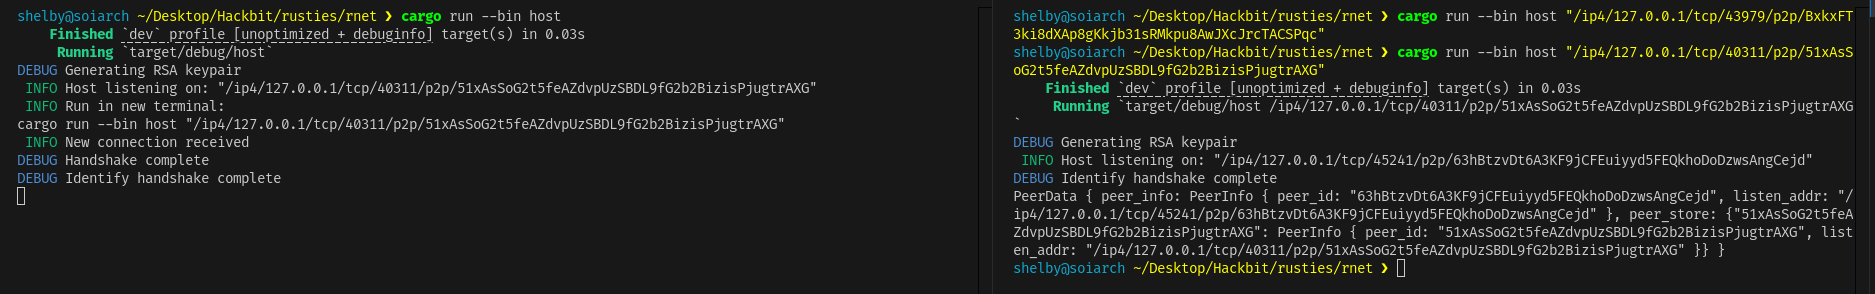
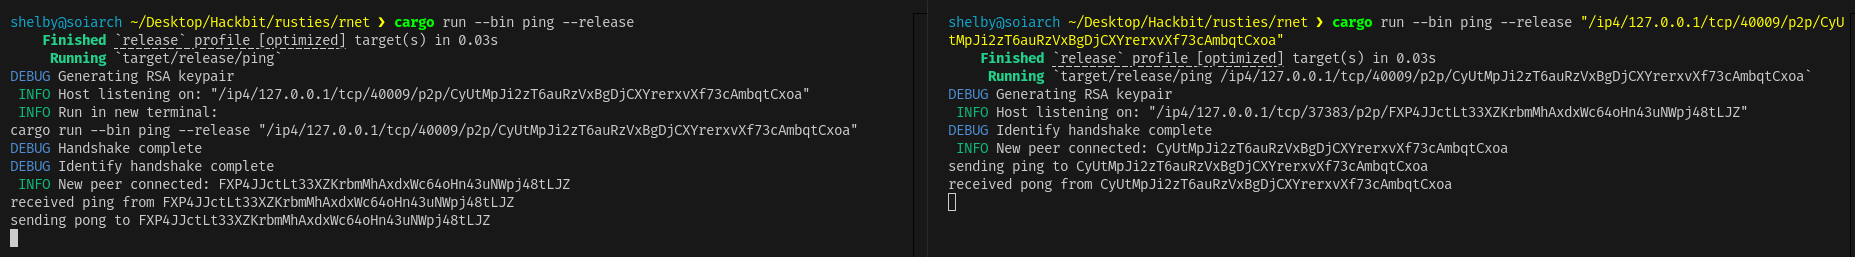
[rnet]: add docs

Changed region(s): [[0.4916, 0.0, 1.0, 0.9339], [0.0, 0.0311, 0.4609, 0.8093], [0.0, 0.8405, 0.2765, 0.965]]

diff --git a/rusties/rnet/README.md b/rusties/rnet/README.md
@@ -1,0 +1,106 @@
+# rnet -- A minimal P2P networking stack in Rust
+
+This repository is an experimental peer-to-peer networking library written in Rust. The goal is for me to understand how a P2P stack is built from ground up -- especially the complex RUST async patterns involved when we combine transports, multiplexing, and application-level protocols.
+
+## Repository Structure
+
+The main components of this repository are structured as follows:
+
+- `core/`: Foundational types and traits used across the entire stack.
+
+  This crate defines:
+
+  - peer identity and peer-related data structures.
+  - multiaddr parsing and representation.
+  - core traits that describe transports, connections, and stream abstractions.
+    Almost every other crate depend on `core`, moke it the conceptual base of the system.
+
+- `transport/`: Implementation of connection level networking
+
+  Curretly includes:
+
+  - **TCP transport**, responsible for establishing raw byte streams between peers.
+
+- `muxer/`: Stream multiplexing implementations build on top of transports.
+
+  Currently includes:
+
+  - **mplex**, allowing multiple logical streams over a single transport connection
+    Muxers sit between the transport and protocol layers and are responsible for stream lifecycle management, framing and backpressure.
+
+- `protocols/`: Implimentation of application-level protocols running over multiplexed streams.
+
+  Currently includes:
+
+  - **identify**, peer indentification handshake
+
+- `examples/`: Runnable binaries demonstrating how to assemble the stack end-to-end.
+
+  Examples show:
+
+  - how to create a host
+  - how to listen or dial using multiaddrs
+  - how transports, muxers, and protcols are wired together in practice.
+    These are intended as executable reference points, not just sample snippets.
+
+-------------------------------------------------------------------------
+> Legend: ✅: Done  🛠: In Progress/Usable  🌱 Prototype/Unstable  ❌: Missing
+
+## Transports
+
+| **Transport**  | **Status** |                                      **Source**                                      |
+| -------------- | :--------: | :----------------------------------------------------------------------------------: |
+| **`rnet-tcp`** |     ✅     | [source](https://github.com/lla-dane/Hackbit/tree/master/rusties/rnet/transport/tcp) |
+
+---
+
+### Secure Communication
+
+| **Secure Communication** | **Status** | **Source** |
+| ------------------------ | :--------: | :--------: |
+| **`rnet-noise`**         |     🛠     |            |
+
+---
+
+### Stream Muxers
+
+| **Stream Muxers** | **Status** |                                     **Source**                                     |
+| ----------------- | :--------: | :--------------------------------------------------------------------------------: |
+| **`rnet-mplex`**  |     ✅     | [source](https://github.com/lla-dane/Hackbit/tree/master/rusties/rnet/muxer/mplex) |
+
+---
+
+### General Purpose Utilities & Datatypes
+
+| **Utility/Datatype** | **Status** |                                        **Source**                                         |
+| -------------------- | :--------: | :---------------------------------------------------------------------------------------: |
+| **`rnet-ping`**      |     ✅     |   [source](https://github.com/lla-dane/Hackbit/tree/master/rusties/rnet/examples/ping)    |
+| **`rnet-identify`**  |     ✅     | [source](https://github.com/lla-dane/Hackbit/tree/master/rusties/rnet/protocols/identify) |
+
+## Explanation of Basic Two Node Communication
+
+### Core Concepts
+
+_(non-normative, useful for understanding, not a reference)_
+
+Several components of a p2p stack take part when establishing a connection between two nodes:
+
+1. **Host**: a node in a p2p network.
+1. **Connection**: the layer 3 connection between two nodes in a p2p network.
+1. **Transport**: the component that creates a _Connection_, e.g. TCP, UDP, QUIC, etc.
+1. **Streams**: an abstraction on top of a _Connection_ representing parallel conversations about different matters, each of which is identified by a protocol ID. Multiple streams are layered on top of a _Connection_ via the _StreamMultiplexer_. e.g. MPLEX, YAMUX, etc.
+1. **Multiplexer**: a component that is responsible for wrapping messages sent on a stream with an envelope that identifies the stream they pertain to, normally via an ID. The multiplexer on the other unwraps the message and routes it internally based on the stream identification.
+1. **Secure channel**: optionally establishes a secure, encrypted, and authenticated channel over the _Connection_. e.g. NOISE, TLS
+1. **Upgrader**: a component that takes a raw layer 3 connection returned by the _Transport_, and performs the security and multiplexing negotiation to set up a secure, multiplexed channel on top of which _Streams_ can be opened.
+
+### Communication between two hosts X and Y
+
+_(non-normative, useful for understanding, not a reference)_
+
+**Initiate the connection**: A host is simply a node in a p2p network that is able to communicate with other nodes in the network. In order for X and Y to communicate with one another, one of the hosts must initiate the connection. Let's say that X is going to initiate the connection. X will first open a connection to Y. This connection is where all of the actual communication will take place.
+
+**Communication over one connection with multiple protocols**: X and Y can communicate over the same connection using different protocols and the multiplexer will appropriately route messages for a given protocol to a particular handler function for that protocol, which allows for each host to handle different protocols with separate functions. Furthermore, we can use multiple streams for a given protocol that allow for the same protocol and same underlying connection to be used for communication about separate topics between nodes X and Y.
+
+**Why use multiple streams?**: The purpose of using the same connection for multiple streams to communicate over is to avoid the overhead of having multiple connections between X and Y. In order for X and Y to differentiate between messages on different streams and different protocols, a multiplexer is used to encode the messages when a message will be sent and decode a message when a message is received. The multiplexer encodes the message by adding a header to the beginning of any message to be sent that contains the stream id (along with some other info). Then, the message is sent across the raw connection and the receiving host will use its multiplexer to decode the message, i.e. determine which stream id the message should be routed to.
+
+_This structure is inspired by libp2p's layering model. but implemented independently to better understand the mechanics and async patterns involved._

diff --git a/rusties/rnet/muxer/mplex/README.md b/rusties/rnet/muxer/mplex/README.md
@@ -1,0 +1,58 @@
+# Mplex Stream Multiplexer
+
+This module implements a lightweight stream multiplexing layer inspired by mplex.
+
+It allows multiple logical streams to be created and managed over a single underlying transport connection, enabling concurrent protocol execution without opening multiple TCP connections.
+
+## Overview
+
+The mplex layer sits between the transport and protocol layers.
+
+It is responsible for:
+- framing data into stream-specific messages
+- creating and closing logical streams
+- routing incoming frames to the correct stream
+- dispatching streams to protocol handlers after a simple handshake
+
+Each multiplexed stream behaves like an independent, bidirectional channel, while sharing a single underlying connection.
+
+## Core components
+
+**`MuxedConn`**: This represents a multiplexed connection built on top of a raw transport connection.
+
+It manages:
+- the underlying RawConnection
+- stream ID allocation and tracking
+- a map of active streams and their message channels
+- demultiplexing of incoming frames
+- forwarding payloads to the appropriate `MuxedStream`
+
+Incoming frames are parsed, classified by flag and stream ID, and routed accordingly.
+
+**`MuxedStream`**: This represents a single logical stream within a multiplexed connection.
+
+It provides:
+- async read and write operations
+- stream-scoped protocol negotiation
+- access to remote peer information
+- execution of protocol-specific async handlers
+
+Each stream is independent and can run concurrently with others.
+
+### Framing format
+
+Frames are encoded as:
+- varint-encoded header containing stream ID and message flag
+- varint-encoded payload length
+- raw payload bytes
+
+The header embeds both the stream identifier and the message type, allowing efficient demultiplexing.
+
+### Protocol handshake
+
+When a new stream is created, a minimal handshake is performed:
+- the initiator sends the protocol name as the first message
+- the responder validates the protocol against registered handlers
+- both sides confirm the protocol before executing the handler
+
+This mechanism provides basic protocol dispatch without a full negotiation framework.

diff --git a/rusties/rnet/core/host/README.md b/rusties/rnet/core/host/README.md
@@ -1,0 +1,49 @@
+## Host
+
+This module contains the core host runtime of an rnet node. This crate is basically about:
+
+> "How does a node accept raw TCP connection and turn it into a multiplexed, identify-aware peer connection?"
+
+The architecture includes:
+- **BasicHost** -- the runtime and event loop
+- **Multiselect** -- protocol negotiation and identify handshake
+- **Keys** -- peer identity and message authentication
+
+## Layout
+```bash
+host/
+├── basic_host.rs        # Node runtime and connection lifecycle
+├── headers.rs           # Internal host control framing
+├── keys/
+│   ├── mod.rs           # Key trait abstraction
+│   └── rsa.rs           # RSA-based peer identity
+├── multiselect/
+│   ├── mod.rs
+│   ├── multiselect.rs   # Initiator-side protocol negotiation
+│   └── mutilselect_com.rs # Responder-side negotiation
+└── lib.rs
+```
+
+- `BasicHost`: The main event loop of a node.
+    It owns:
+    - the TCP transport
+    - active peer-connections and key-pairs
+    - protocol stream handlers
+    - an internal control channel
+
+- `Multiselect`: This module handles protocol negotiation.
+    There are 2 roles:
+    - `Multiselect` -- used by the dialer (initiator)
+    - `MultiselectConn` -- used by the listener (responder)
+
+    Both negotiate:
+    - multistream support
+    - idenitfy protocol
+
+    After negotiation the identify sequence run to exchange the `PeerInfo`
+
+- `Keys`: This module defines the node identity.
+    - `RsaKeyPair` is the default implementation
+
+    Peer IDs are derived from the SHA-256 hash of the public key and encoded in base58. This makes identities deterministic and content-addressed.
+

diff --git a/rusties/rnet/examples/tcp/README.md b/rusties/rnet/examples/tcp/README.md
@@ -1,0 +1,44 @@
+## Description
+
+The TCP ping example demonstrates direct usage of the TcpTransport without any stream multiplexing or application-level protocols.
+
+It shows how to:
+
+- listen for incoming TCP connections
+- dial a remote peer using a multiaddr
+- perform basic asynchronous read and write operations over a raw connection
+
+The example operates in a simple client/server mode and is intended as a low-level building block for understanding the transport layer of rnet.
+
+## Usage
+
+To run the example, follow these steps:
+
+1. In a first terminal window, run the following command:
+
+   ```sh
+   cargo run --bin tcp --release
+   ```
+
+   This command starts a node and prints the listening-IP like this:
+
+   ```sh
+   Run in another terminal: cargo run -- 127.0.0.1:46749
+   ```
+
+2. In a second terminal window, start a new instance of the example with the following command:
+
+   ```sh
+   cargo run --bin tcp --release -- 127.0.0.1:46749
+   ```
+
+   Replace `127.0.0.1:46749` with the listening-IP of the first node obtained from the first terminal window.
+
+3. The client sends a ping message to the server.
+   The server receives the message, waits briefly, and responds with pong.
+
+## Conclusion
+
+The TCP ping example illustrates the most basic networking path in rnet: raw transport connections and asynchronous I/O.
+
+It serves as a reference for how higher-level components such as stream multiplexers and protocols are layered on top of transports in the rest of the project.

diff --git a/rusties/rnet/examples/ping/README.md b/rusties/rnet/examples/ping/README.md
@@ -1,0 +1,33 @@
+## Description
+
+The ping example showcases how to create a network of nodes that establish connections, negotiate the ping protocol, and ping each other.
+
+## Usage
+
+To run the example, follow these steps:
+
+1. In a first terminal window, run the following command:
+
+   ```sh
+   cargo run --bin ping --release
+   ```
+
+   This command starts a node and prints the `PeerId` and the listening addresses, such as:
+   ```sh
+   `Listening on "/ip4/127.0.0.1/tcp/44389/p2p/23fdsv32..."`.
+   ```
+
+2. In a second terminal window, start a new instance of the example with the following command:
+
+   ```sh
+   cargo run --bin ping --release /ip4/127.0.0.1/tcp/44389/p2p/2958bs....
+   ```
+
+   Replace `/ip4/127.0.0.1/tcp/44389` with the listen address of the first node obtained from the first terminal window.
+
+3. The two nodes will establish a connection, negotiate the ping protocol, and begin pinging each other.
+
+## Conclusion
+
+The ping example demonstrates the basic usage of **rnet** to create a simple p2p network and implement a ping protocol.
+By running multiple nodes and observing the ping behavior, users can gain insights into how **rnet** facilitates communication and interaction between peers.

diff --git a/rusties/rnet/transport/tcp/README.md b/rusties/rnet/transport/tcp/README.md
@@ -1,0 +1,27 @@
+# TCP Transport
+
+This module provides a TCP-based implementation of the Transport and Connection traits used throughout rnet.
+
+It is responsible for establishing and managing raw network connections and exposes a minimal, async-friendly API for reading and writing bytes.
+
+## What it implements
+
+**`TcpTransport`**: A thin wrapper around `tokio::net::TcpListener` and implements the `Transport` trait.
+
+It supports:
+- listening on a TCP address derived from a Multiaddr
+- accepting incoming connections
+- dialing remote peers using TCP
+
+The transport layer does not interpret data and does not provide stream multiplexing.
+
+**`TcpConn`**: It wraps a `tokio::net::TcpStream` and represents a single TCP connection.
+
+It implements:
+- `Connection` — basic async read, write, and close operations
+- `SendReceive` — a simple length-prefixed message framing helper
+
+The framing format is:
+- 4-byte big-endian message length
+- followed by the raw message bytes
+

diff --git a/rusties/rnet/examples/README.md b/rusties/rnet/examples/README.md
@@ -1,0 +1,25 @@
+# Examples
+
+A set of examples showcasing how to use rnet.
+
+## Getting started
+
+To run any example in this directory, you can use Cargo:
+
+```sh
+# Get to root directory
+cargo run --bin ping --release
+```
+
+Each example includes its own README.md file with specific instructions on how to use it. Most examples require running multiple instances to demonstrate peer-to-peer communication, so be sure to read the individual example documentation.
+
+### Prerequisites
+
+- Rust and Cargo installed (see [rustup.rs](https://rustup.rs/) for installation)
+- Basic understanding of peer-to-peer networking concepts
+- Some examples may require additional dependencies specific to their functionality
+
+## Individual libp2p features
+
+- [Ping](./ping): Small `ping` clone, sending a ping to a peer, expecting a pong as a response.
+- [TCP](./tcp): A minimal TCP client/server example built on `TcpTransport`, illustrating async accept loops, task spawning, and connection I/O.

diff --git a/rusties/rnet/core/multiaddr/src/README.md b/rusties/rnet/core/multiaddr/src/README.md
@@ -1,0 +1,18 @@
+# Multiaddr
+
+This module provides a minimal implementation of multiaddresses used throughout rnet to describe how peers can be reached.
+
+A multiaddr represents a network address as an ordered list of protocol components (e.g. IP, transport, peer ID), rather than a single opaque string.
+
+## Overview
+
+A `Multiaddr` is parsed from a string such as:
+```sh
+/ip4/127.0.0.1/tcp/8080/p2p/afopponnfsklngllsbgjzafnafangg
+```
+
+Internally, it is represented as a sequence of protocol components that can be inspected, modified, or extended by higher layers.
+
+This makes address handling explicit and avoids hard-coding assumptions about transports or protocols.
+
+

diff --git a/rusties/rnet/protocols/identify/README.md b/rusties/rnet/protocols/identify/README.md
@@ -1,0 +1,7 @@
+# Identify Protocol
+
+The identify module implements a minimal peer identification exchange.
+
+Its purpose is to allow two connected peers to exchange basic identity information immediately after a connection is established, before any higher-level protocols are run.
+
+This is a foundational step in the connection lifecycle, as many protocols need to know who they are talking to before proceeding.
